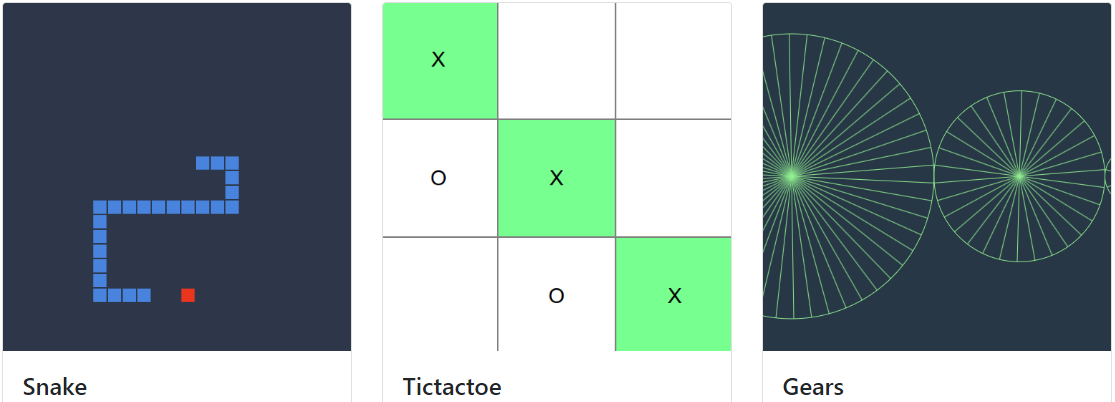
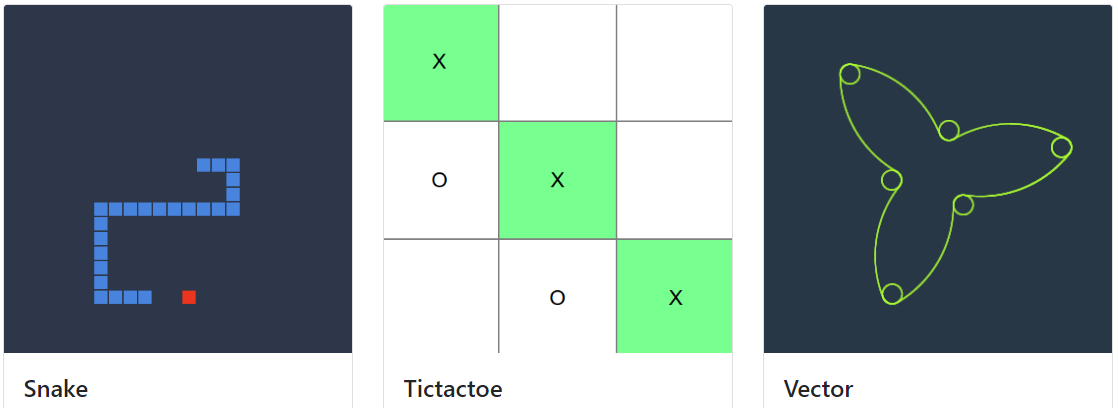
add vector

diff --git a/vector/index.html b/vector/index.html
@@ -1,0 +1,147 @@
+<!DOCTYPE html>
+<html lang="en">
+
+<head>
+	<meta charset="UTF-8">
+	<meta http-equiv="X-UA-Compatible" content="IE=edge">
+	<meta name="viewport" content="width=device-width, initial-scale=1.0">
+	<title>Document</title>
+	<style>
+		body {
+			margin: 0;
+			background-color: #273746;
+		}
+
+		span {
+			color: white;
+		}
+
+		#canvas {
+			margin-top: 10px;
+			margin-left: 10px;
+			border: 1px solid lightgreen;
+		}
+
+		button {
+			padding-left: 10px;
+			padding-right: 10px;
+		}
+	</style>
+</head>
+
+<body>
+	<div>
+		<div style="display:inline-block">
+			<canvas id="canvas" width="800" height="600"></canvas>
+		</div>
+		<div style="display:inline-block">
+			<span>Param x: C1</span><br>
+			<input type="number" id="c1" step="10" value="120">
+			<br><br>
+			<span>Param x: V1</span><br>
+			<input type="number" id="v1" step="0.01" value="0.008725">
+			<br><br>
+			<span>Param x: C2</span><br>
+			<input type="number" id="c2" step="10" value="80">
+			<br><br>
+			<span>Param x: V2</span><br>
+			<input type="number" id="v2" step="0.05" value="0.10">
+			<br><br>
+			<button onclick="clickDraw()">Draw!</button>
+			<br><br>
+			<button onclick="clickReset()">Reset!</button>
+			<br><br>
+		</div>
+	</div>
+
+	<script>
+		// parametros del patron
+		var c1 = 120, v1 = 0.008725;
+		var c2 = 80, v2 = 0.10;
+
+		// set parametros from location search query params
+		var usp = new URLSearchParams(location.search);
+		if (Number.isFinite(parseFloat(usp.get('c1')))) {
+			c1 = parseFloat(usp.get('c1'));
+			document.getElementById('c1').value = c1;
+		}
+		if (Number.isFinite(parseFloat(usp.get('v1')))) {
+			v1 = parseFloat(usp.get('v1'));
+			document.getElementById('v1').value = v1;
+		}
+		if (Number.isFinite(parseFloat(usp.get('c2')))) {
+			c2 = parseFloat(usp.get('c2'));
+			document.getElementById('c2').value = c2;
+		}
+		if (Number.isFinite(parseFloat(usp.get('v2')))) {
+			v2 = parseFloat(usp.get('v2'));
+			document.getElementById('v2').value = v2;
+		}
+
+		// canvas boilerplate
+		var CTX = document.getElementById("canvas").getContext("2d");
+		CTX.strokeStyle = "greenyellow";
+		CTX.fillStyle = "#273746";
+		CTX.beginPath();
+		CTX.rect(0, 0, 800, 600);
+		CTX.fill();
+		function drawLine(x1, y1, x2, y2) {
+			CTX.beginPath();
+			CTX.moveTo(x1, y1);
+			CTX.lineTo(x2, y2);
+			CTX.stroke();
+		}
+
+		/**************/
+		/* ini engine */
+		/**************/
+
+		// generar patron
+		var pv = [], pi = 0;
+		for (let i = 0; i < c1 / 2; i++) pv.push(v1);
+		for (let i = 0; i < c2; i++) pv.push(v2);
+		for (let i = 0; i < c1; i++) pv.push(v1);
+		for (let i = 0; i < c2; i++) pv.push(-v2);
+		for (let i = 0; i < c1 / 2; i++) pv.push(v1);
+
+		// vector
+		var x0 = 400, y0 = 300, alpha = 0;
+		function mover() {
+			var x1 = x0 + Math.cos(alpha);
+			var y1 = y0 + Math.sin(alpha);
+			drawLine(x0, y0, x1, y1);
+			x0 = x1;
+			y0 = y1;
+			alpha += pv[pi];
+			pi = (pi + 1) % pv.length;
+		}
+
+		// interval
+		setInterval(mover, 10);
+
+		/**************/
+		/* fin engine */
+		/**************/
+
+	</script>
+
+	<script>
+		function clickDraw() {
+			c1 = document.getElementById('c1').value || c1;
+			v1 = document.getElementById('v1').value || v1;
+			c2 = document.getElementById('c2').value || c2;
+			v2 = document.getElementById('v2').value || v2;
+			var usp = new URLSearchParams();
+			usp.set('c1', c1);
+			usp.set('v1', v1);
+			usp.set('c2', c2);
+			usp.set('v2', v2);
+			window.location = location.pathname + '?' + usp.toString();
+		}
+		function clickReset() {
+			window.location = location.pathname;
+		}
+	</script>
+</body>
+
+</html>

diff --git a/index.html b/index.html
@@ -15,14 +15,14 @@
     </nav>
 
     <div class="container">
-      <h1>Available games</h1>
+      <h1>Available games (4)</h1>
       <div class="row">
         <div class="col-md-4 card-wrapper">
           <div class="card">
             <img class="card-img-top" src="snake/preview.png" alt="snake card image">
             <div class="card-body">
               <h4 class="card-title">Snake</h4>
-              <p class="card-text">The classic game of the snake written in javascript</p>
+              <p class="card-text">The classic game of the snake written in javascript.</p>
               <a href="snake/index.html" class="btn btn-primary">Play</a>
             </div>
           </div>
@@ -32,8 +32,18 @@
             <img class="card-img-top" src="tictactoe/preview.png" alt="tictactoe card image">
             <div class="card-body">
               <h4 class="card-title">Tictactoe</h4>
-              <p class="card-text">Tictactoe game to be played between two players</p>
+              <p class="card-text">Tictactoe game to be played between two players.</p>
               <a href="tictactoe/index.html" class="btn btn-primary">Play</a>
+            </div>
+          </div>
+        </div>
+        <div class="col-md-4 card-wrapper">
+          <div class="card">
+            <img class="card-img-top" src="vector/preview.png" alt="vector card image">
+            <div class="card-body">
+              <h4 class="card-title">Vector</h4>
+              <p class="card-text">Draw a parameterizable vector driven graphic.</p>
+              <a href="vector/index.html" class="btn btn-primary">Draw</a>
             </div>
           </div>
         </div>
@@ -42,7 +52,7 @@
             <img class="card-img-top" src="gears/preview.png" alt="gears card image">
             <div class="card-body">
               <h4 class="card-title">Gears</h4>
-              <p class="card-text">Just an animated wallpaper of gears, press F11</p>
+              <p class="card-text">Just an animated wallpaper of gears, press F11.</p>
               <a href="gears/index.html" class="btn btn-primary">View</a>
             </div>
           </div>

diff --git a/snake/index.html b/snake/index.html
@@ -23,6 +23,9 @@
 				<a class="nav-link" href="../tictactoe/index.html">Tictactoe</a>
 			</li>
 			<li class="nav-item">
+				<a class="nav-link" href="../vector/index.html">Vector</a>
+			</li>
+			<li class="nav-item">
 				<a class="nav-link" href="../gears/index.html">Gears</a>
 			</li>
 		</ul>

diff --git a/tictactoe/index.html b/tictactoe/index.html
@@ -28,6 +28,9 @@
 				<a class="nav-link" href="../tictactoe/index.html">Tictactoe</a>
 			</li>
 			<li class="nav-item">
+				<a class="nav-link" href="../vector/index.html">Vector</a>
+			</li>
+			<li class="nav-item">
 				<a class="nav-link" href="../gears/index.html">Gears</a>
 			</li>
 		</ul>
